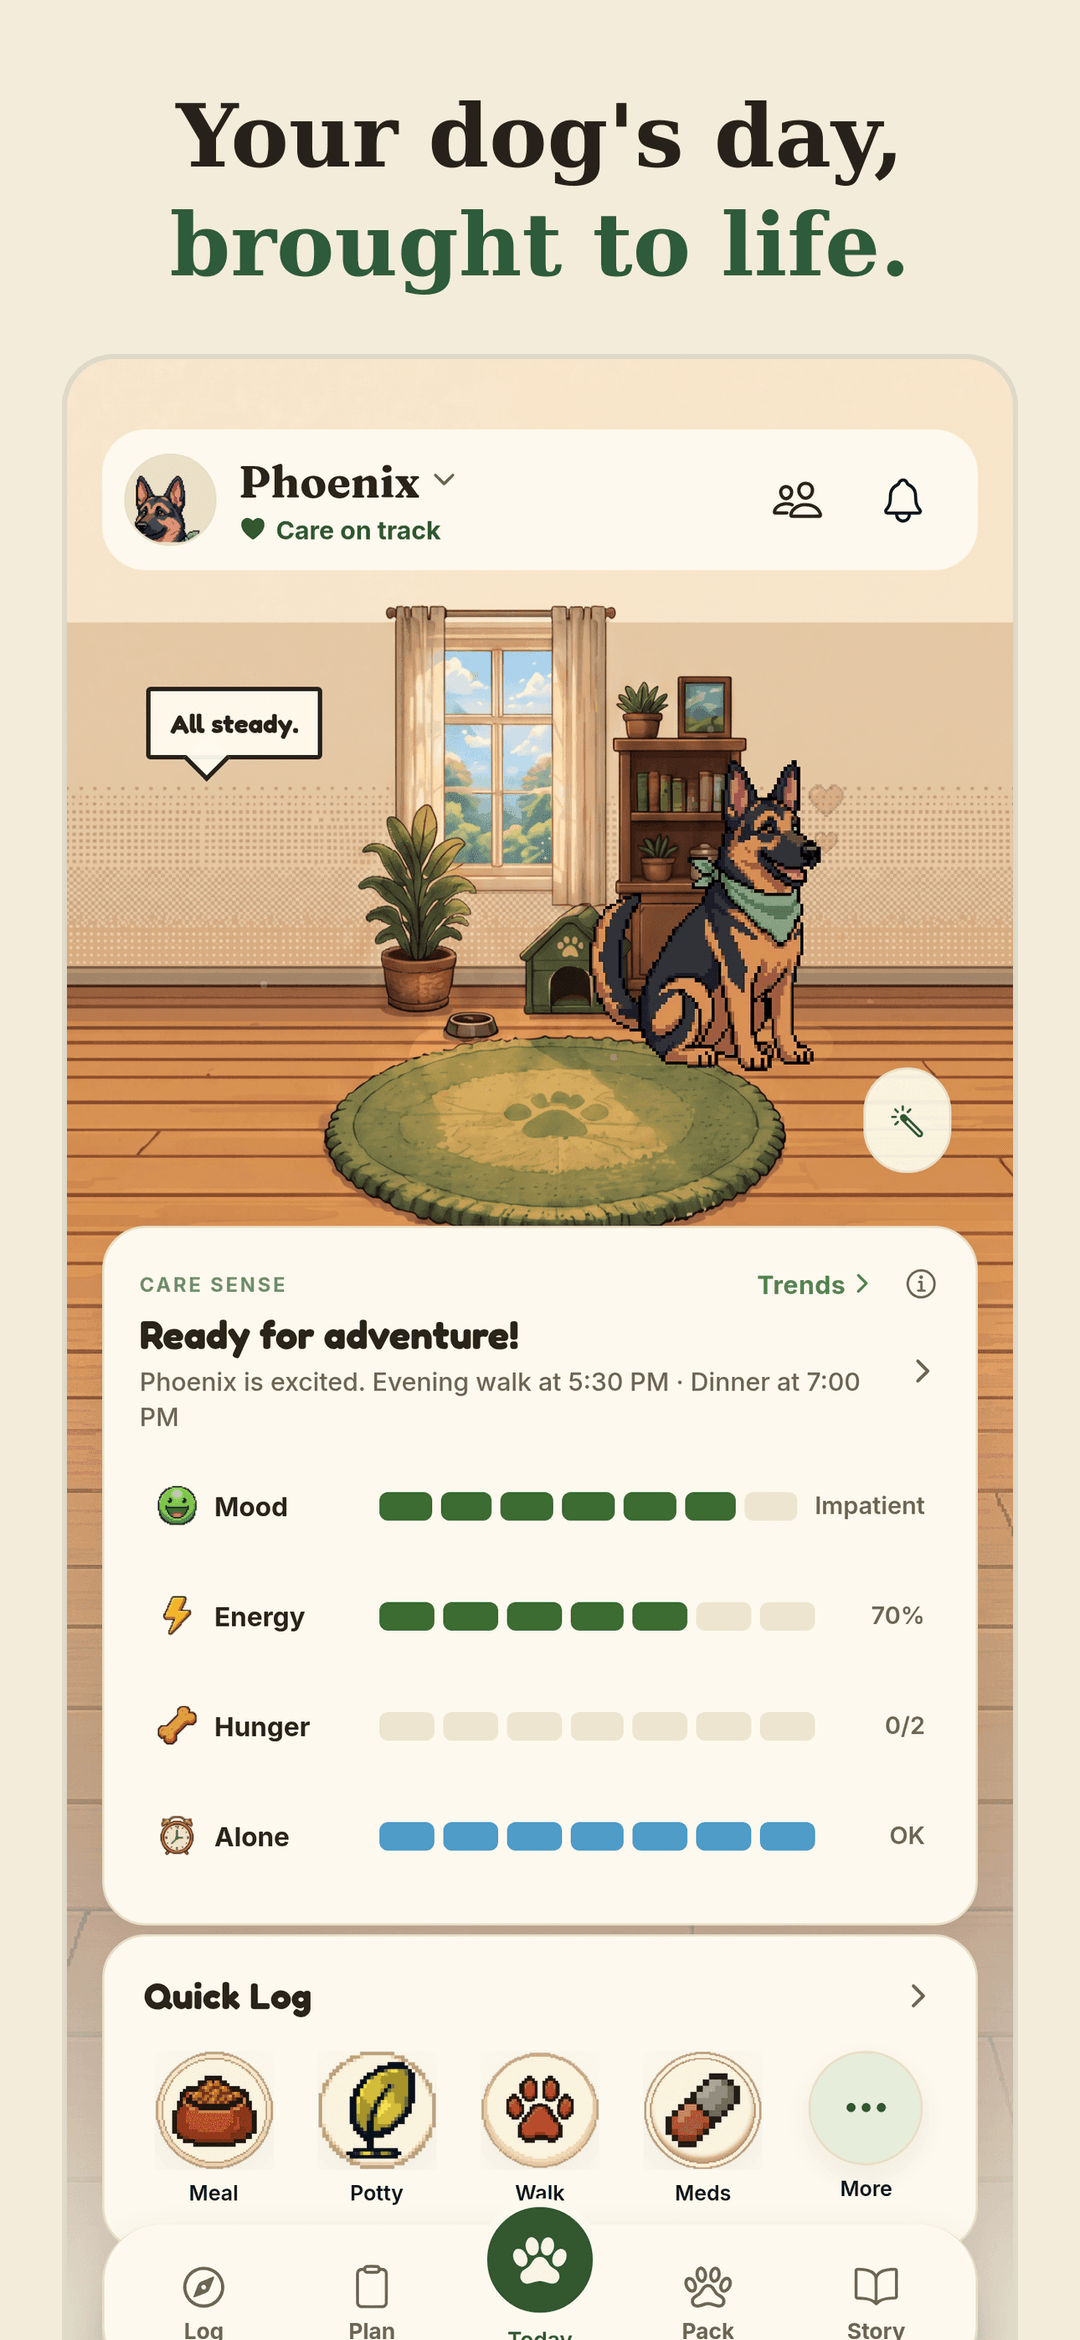
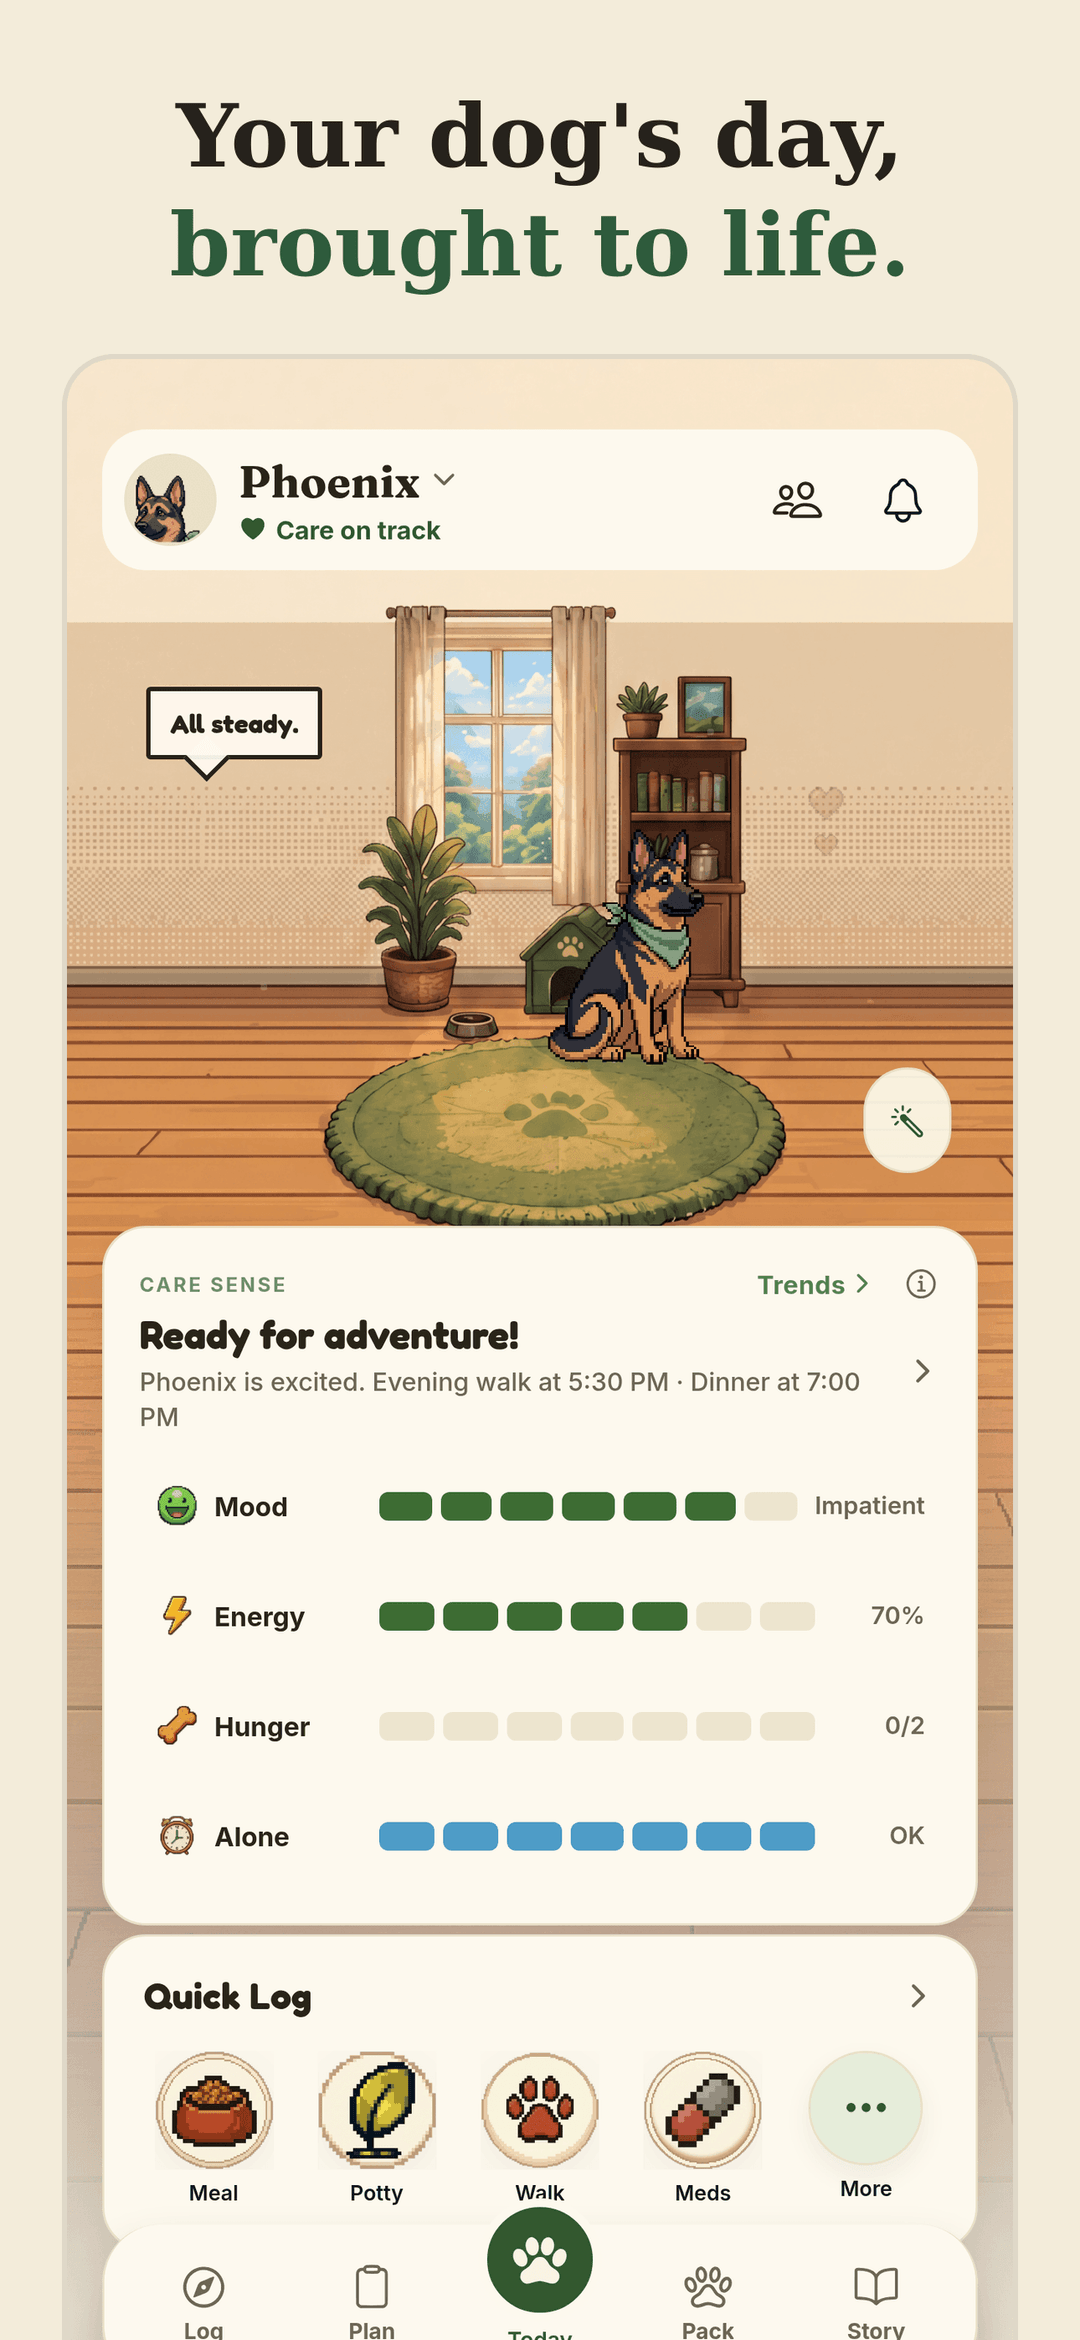
Fix Today room scale: right-size the care twin to the room
The home care twin rendered far too large for the immersive room — its
head reached the window and it dwarfed the bookshelf, dog house, and
plant, reading as a giant in a dollhouse rather than a dog at home.

- Shrink the immersive/roam rig from 150 to 118pt so the twin reads at a
  believable proportion against the baked room furniture (head near the
  bookshelf/collar line, well below the window).
- Lower and re-center the roam floor band and the anchored immersive zone
  so the smaller, bottom-aligned sprite keeps its paws planted on the rug
  at every waypoint (door/window/rug/bed/bowl) instead of floating.
- Update the roam-waypoint guardrail test to the new 118pt geometry.

Only the immersive Home stage (transparentScene) is affected; the framed
compact stages (Health Watch, Avatar Studio) keep their own zone and are
unchanged. Regenerated the iOS 6.7" and Play phone screenshot pack against
the corrected scale. Typecheck clean; focused tests pass.

Claude-Session: https://claude.ai/code/session_01E3SyepRSXQa9XivHNfFC6J

Changed region(s): [[0.4889, 0.312, 0.7639, 0.4679]]

diff --git a/artifacts/woofwatcher-mobile/lib/careTwinRoam.ts b/artifacts/woofwatcher-mobile/lib/careTwinRoam.ts
@@ -56,17 +56,18 @@ const MAX_WALK_MS = 6000;
 const DEFAULT_DWELL_MS = 3600;
 
 /**
- * Floor-band positions tuned to the immersive backdrops: the rig is 184px
- * wide on a 390pt stage (~47% of the width), so xPct stays within 2-51 to
- * keep paws inside the room. yPct hugs the floor line with a small depth
- * wobble that the scale cue mirrors.
+ * Floor-band positions tuned to the immersive backdrops: the rig is 118px
+ * wide on a 390pt stage (~30% of the width), so xPct stays within 2-51 to
+ * keep paws inside the room. yPct sits lower than the old giant-rig band so
+ * the smaller, bottom-aligned sprite still plants its paws on the rug's
+ * floor line, with a small depth wobble that the scale cue mirrors.
  */
 export const IMMERSIVE_ROAM_WAYPOINTS: Record<AvatarRoomZone, RoamWaypoint> = {
-  door: { zone: "door", xPct: 4, yPct: 23, scale: 0.99 },
-  window: { zone: "window", xPct: 13, yPct: 22, scale: 0.97 },
-  rug: { zone: "rug", xPct: 30, yPct: 24, scale: 1 },
-  bed: { zone: "bed", xPct: 42, yPct: 23, scale: 1 },
-  bowl: { zone: "bowl", xPct: 50, yPct: 25, scale: 1.03 },
+  door: { zone: "door", xPct: 6, yPct: 36, scale: 0.99 },
+  window: { zone: "window", xPct: 15, yPct: 35, scale: 0.97 },
+  rug: { zone: "rug", xPct: 33, yPct: 37, scale: 1 },
+  bed: { zone: "bed", xPct: 45, yPct: 36, scale: 1 },
+  bowl: { zone: "bowl", xPct: 52, yPct: 38, scale: 1.03 },
 };
 
 const ROAM_STOP_ORDER: readonly AvatarRoomZone[] = [

diff --git a/artifacts/woofwatcher-mobile/components/LivingPhoenixRoom.tsx b/artifacts/woofwatcher-mobile/components/LivingPhoenixRoom.tsx
@@ -220,15 +220,17 @@ function getCompactSpriteZone(zone: SpriteStageZone): SpriteStageZone {
 }
 
 // Immersive mode grounds the care twin on the framed room card's floor
-// band: the storybook card is shorter than the old full-bleed stage, so the
-// rig anchors higher to keep paws inside the frame at every density.
+// band. The rig is intentionally sized well under the old 150 so the dog
+// reads as a real dog in the room (head near the window sill, not the
+// curtain rod) rather than a giant filling the stage; the anchor sits low
+// enough that a smaller, bottom-aligned sprite keeps its paws on the rug.
 function getImmersiveSpriteZone(zone: SpriteStageZone): SpriteStageZone {
   return {
     ...zone,
-    left: "30%",
-    top: "22%",
-    width: 150,
-    height: 150,
+    left: "33%",
+    top: "35%",
+    width: 118,
+    height: 118,
   };
 }
 
@@ -1498,7 +1500,10 @@ export function LivingPhoenixRoom({
   );
 }
 
-const ROAM_RIG_SIZE = 150;
+// Rig box for the roaming twin. Kept in step with getImmersiveSpriteZone's
+// width/height so the walking dog and the anchored dog read at the same
+// believable scale against the room furniture.
+const ROAM_RIG_SIZE = 118;
 const ROAM_BOB_MS = 340;
 
 /**

diff --git a/artifacts/woofwatcher-mobile/lib/careTwinRoam.test.ts b/artifacts/woofwatcher-mobile/lib/careTwinRoam.test.ts
@@ -101,12 +101,12 @@ test("roam pose interpolates walks, holds dwells, and wraps the loop", () => {
 test("waypoints keep the sprite rig inside the immersive stage", () => {
   for (const waypoint of Object.values(IMMERSIVE_ROAM_WAYPOINTS)) {
     assert.ok(
-      waypoint.xPct >= 2 && waypoint.xPct <= 51,
-      `${waypoint.zone} xPct ${waypoint.xPct} must keep the 184px rig on a 390pt stage`,
+      waypoint.xPct >= 2 && waypoint.xPct <= 60,
+      `${waypoint.zone} xPct ${waypoint.xPct} must keep the 118px rig on a 390pt stage`,
     );
     assert.ok(
-      waypoint.yPct >= 22 && waypoint.yPct <= 32,
-      `${waypoint.zone} yPct ${waypoint.yPct} must keep paws on the framed card's floor band`,
+      waypoint.yPct >= 30 && waypoint.yPct <= 42,
+      `${waypoint.zone} yPct ${waypoint.yPct} must keep paws on the room's floor line`,
     );
     assert.ok(
       waypoint.scale >= 0.94 && waypoint.scale <= 1.08,
